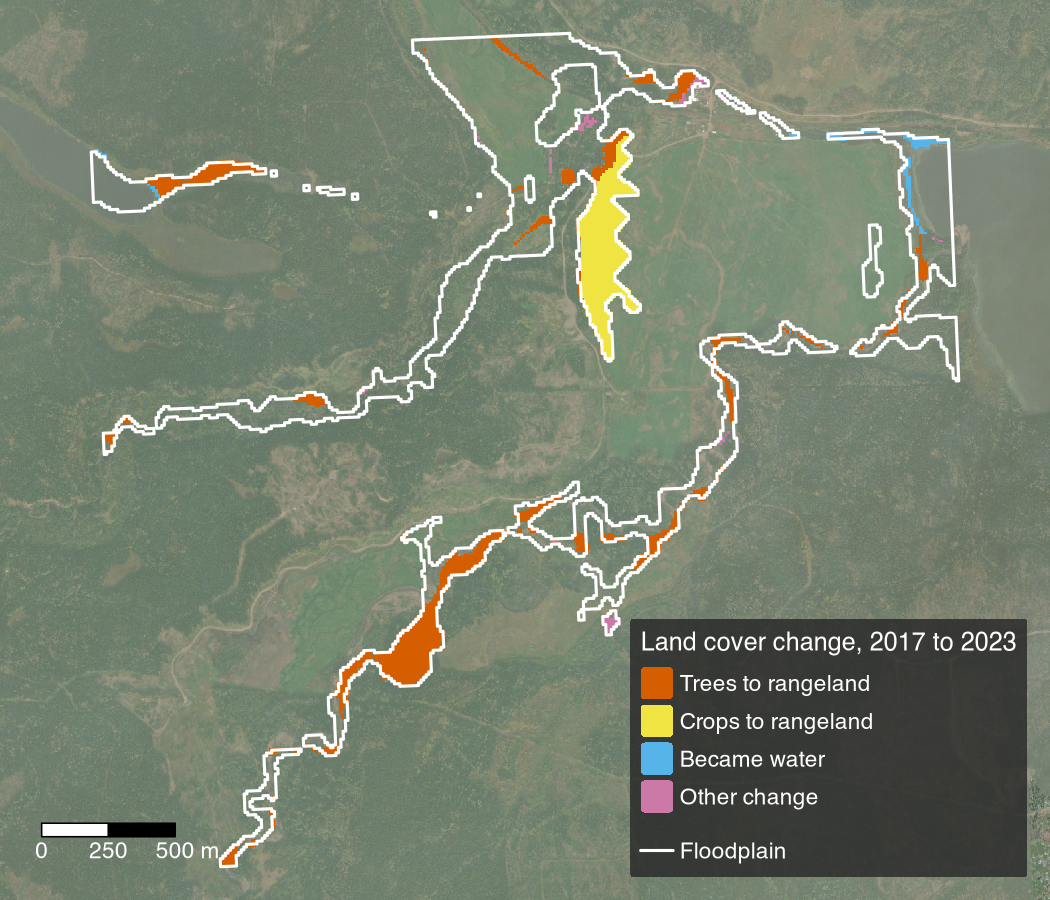
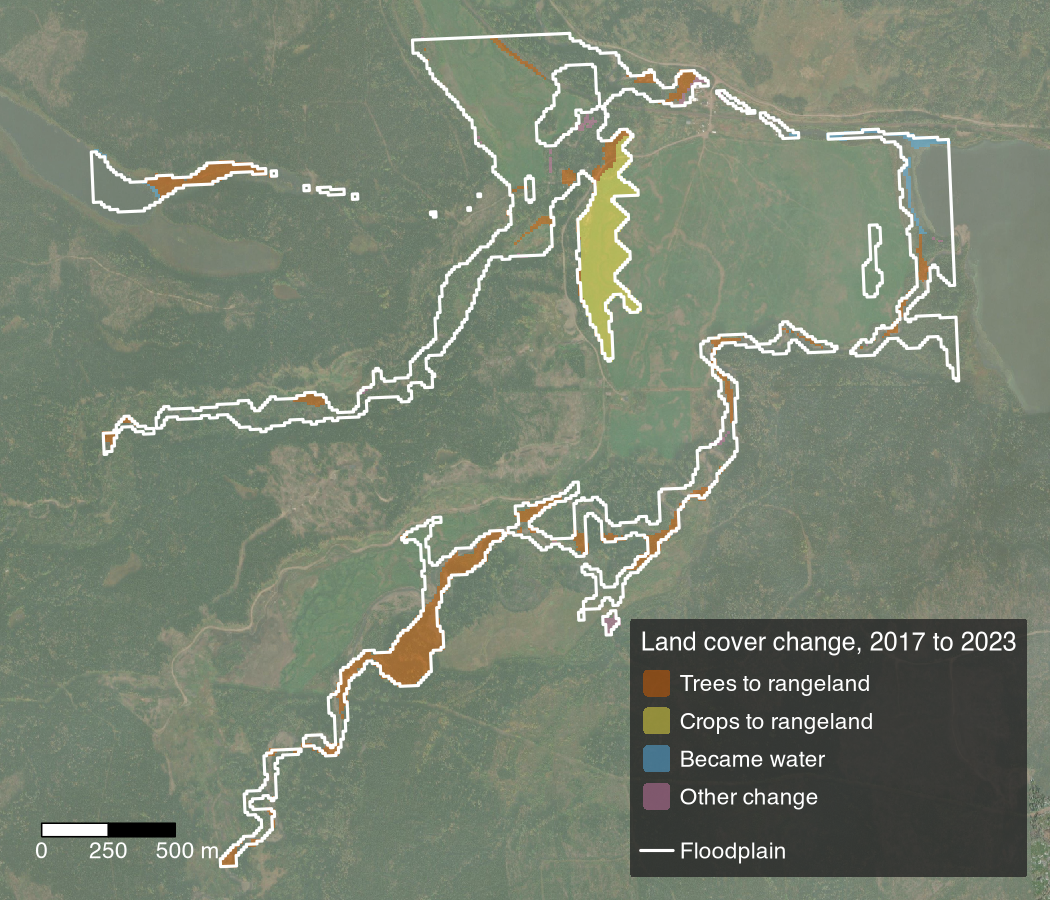
README map at half opacity; caption names what 123 ha is (#105)
Change polygons draw at 50% so the imagery shows through; the opacity is
fill_opacity in drift_readme.csv. The caption's 123 ha is the mapped cells,
not the floodplain outline's 104 ha.

Claude-Session: https://claude.ai/code/session_01PRhUJsuKABLfpBGktPoiBN

diff --git a/planning/active/review-round1.md b/planning/active/review-round1.md
@@ -1,0 +1,132 @@
+# Code-check round 1 — branch 105-readme-describe-accuracy-assessment-brea (2026-10-17)
+
+Reviewer: subagent, read-only on the repo (runs done in scratchpad copies via `git archive HEAD`).
+
+## Findings
+
+- **[false-claim, minor]** README.md:14 (caption) — "34 of 123 ha changed class" sits under a map whose
+  white outline is labelled "Floodplain", so 123 ha reads as the floodplain's area. It is not. The
+  bundled AOI (`inst/extdata/example_aoi.gpkg`) is **103.5 ha**; the 123.1 ha is the 12,311 cells
+  valid in both years, which equals exactly the `rasterize(touches = TRUE)` footprint of the AOI
+  (measured: touches-mask cells = 12,311; cells whose centre is inside the AOI = 10,397). So 19.6 ha
+  (16%) of the stated area, and 5.25 of the 34.0 ha of change (2,878 of 3,403 changed cells have
+  centres inside), lie in the boundary ring of cells that only touch the outline. Visible on the map
+  as orange patches beyond the white line. The numbers are what `dft_rast_transition()` returns; it
+  is the implied denominator that is off. Fix in wording, e.g. "34 of the 123 ha mapped (cells
+  touching the floodplain) changed class", or drop the denominator.
+
+- **[fragile, low]** .github/workflows/update-citation-cff.yaml:30 vs inst/CITATION — README.md:85
+  offers `citation("drift")` and CITATION.cff as interchangeable. After this branch merges, the
+  workflow (run in a scratch copy, cffr 1.4.2, output valid) writes authors *Irvine A; New Graph
+  Environment Ltd.* and `url: https://www.newgraphenvironment.com/drift/`, while `inst/CITATION`
+  still renders *Irvine A (2026) ... New Graph Environment Ltd. ... <https://github.com/...>*
+  (authors filtered to role "aut"; first URL). Two citations of one package with different author
+  lists. Intentional per plan (company as cff author), so only flagging that the two now disagree;
+  not blocking.
+
+No bugs or security issues found in `data-raw/readme_figure.R`, `inst/cartography/drift_readme.csv`,
+`_pkgdown.yml`, DESCRIPTION, or the Rd.
+
+## Verification done
+
+- README example reproduced exactly (`pkgload::load_all()`; tibble 6 x 5, every value and the
+  `0.8` row identical). `area` is ha: `dft_rast_transition(unit = "ha")` default, R/dft_rast_transition.R:66.
+- `data-raw/readme_figure.R` re-run from a `git archive HEAD` copy: 73 s, prints group areas
+  21.11 / 9.98 / 1.73 / 1.21, writes a PNG of **identical byte size** (1,436,503) and dims 1050 x 900,
+  colour type 2 (RGB, no alpha) — the committed figure is made by the committed script.
+- `pkgdown::check_pkgdown()`: no problems; 33 exports, each listed once.
+- `url:` at a `/drift/` path writes no CNAME (`pkgdown:::cname_url` returns NULL for non-root
+  paths, pkgdown 2.2.0); deploy uses `clean: true`. `https://www.newgraphenvironment.com/drift/pkgdown.yml`
+  is 200, so downlit autolinking from sibling sites via the new DESCRIPTION URL still resolves.
+- All README links 200: site root, 4 articles, reference, news, LICENSE.html, CITATION.cff on
+  GitHub, 8 ecosystem sites, gq repo (public), bfast and mapaccuracy CRAN pages (bfast 1.7.2,
+  mapaccuracy 0.1.2 current, not archived).
+- Ecosystem table matches flooded's README verbatim except the swapped bold/this-package row and the
+  added gq row.
+- `inst/cartography/drift_readme.csv` header identical to `drift_temporal.csv`; `gq_reg_custom()`
+  parses it, class order equals `grp_levels`, stroke list well-formed.
+- inst/CITATION takes the first DESCRIPTION URL (GitHub), unchanged.
+
+## Claim enumeration
+
+### README opening / tagline
+
+| Claim | Verdict | Evidence |
+|---|---|---|
+| "fetches free global land-cover maps" (IO LULC, ESA WorldCover) | True | R/dft_stac_config.R:39-50 (Planetary Computer, free, global products) |
+| "or your own classified rasters" | True (via any STAC collection, or a local SpatRaster passed to classify) | R/dft_stac_fetch.R:4-6, 97-99 (`stac_url`/`collection`/`asset` override) |
+| "for a floodplain" | True (any sf polygon AOI) | R/dft_stac_fetch.R:36 |
+| "compares them between two dates" | True | R/dft_rast_transition.R:59 |
+| "and across every year of a series" | True | `dft_rast_break_class()` reads `names(classified)` as the series |
+| "turns the change into maps, tables and change polygons" | True | `dft_map_interactive()`, `$summary`, `dft_transition_vectors()` |
+| "fetches dated Sentinel-2 ... imagery" | True | `dft_stac_composite()` per-year composites |
+| "and Esri Wayback imagery" | True | `dft_wayback_fetch()` |
+| "supports accuracy assessment" | True | `dft_accuracy_sample/estimate/size/labels` |
+| "tags change areas with records you supply, such as fire perimeters or cutblocks" | True; tags, does not attribute cause | R/dft_transition_attribute.R:4, 16-17 |
+| "shows where streamside forest, fields and channels have changed" | Value statement; consistent with IO LULC classes (Trees, Crops, Water) | — |
+
+### Figure caption and alt text
+
+| Claim | Verdict | Evidence |
+|---|---|---|
+| change 2017 to 2023, Neexdzii Kwa reach, bundled data | True | data-raw/readme_figure.R:16-20 |
+| "34 of 123 ha changed class" | Numbers true (34.03 / 123.11); **denominator is the touches-mask cell area, not the 103.5 ha floodplain outlined** | Finding 1 |
+| "Other change" lumps 1.2 ha | True (1.21: Rangeland->Trees 0.85, Built->Rangeland 0.28, Water->Trees 0.03, Flooded veg->Rangeland 0.02, Snow/Ice->Rangeland 0.02, Built->Trees 0.01) | summary, rerun |
+| "Became water" group | True: Trees->Water 0.98 + Rangeland->Water 0.75 = 1.73 | rerun |
+| three named groups are the three largest | True, asserted in script | readme_figure.R:33 |
+| alt: orange trees->rangeland large, yellow crops field, thin blue water edges, few small pink other, white outline, aerial imagery | True against the PNG (#d55e00, #f0e442, #56b4e9, #cc79a7; white #ffffff stroke) | PNG, drift_readme.csv |
+| Land cover: Esri / Impact Observatory IO LULC; Imagery: Esri World Imagery | True | readme_figure.R:59 `Esri.WorldImagery` |
+
+### Installation
+
+| Claim | Verdict | Evidence |
+|---|---|---|
+| "functions that read STAC or Sentinel-2 imagery need gdalcubes" | True: `dft_stac_fetch`, `dft_stac_cube`, `dft_stac_composite`, `dft_index_expr` (cube) call `check_gdalcubes()`; Wayback and `dft_stac_classes` do not | R/dft_stac_fetch.R:109, dft_stac_cube.R:173, dft_stac_composite.R:182, dft_index_expr.R:53 |
+| gdalcubes "archived on CRAN" | True | R/dft_stac_fetch.R:920-933 |
+| fork "reports failed reads" | Consistent with #87 notes / CLAUDE.md | — |
+| "Trajectory break detection also needs bfast" | True; only `dft_rast_break()` | R/dft_rast_break.R:65 |
+| pin `@vX.Y.Z` | Tags are `v`-prefixed (v0.24.2) | git tag |
+
+(Not a false claim, noted only: `dft_map_interactive()` also needs leaflet + leaflet.extras (+ leafem for RGB), Suggests not named in Installation; `rlang::check_installed()` offers the install, R/dft_map_interactive.R:115, 399.)
+
+### Example
+
+| Claim | Verdict | Evidence |
+|---|---|---|
+| pasted output | Reproduces exactly | rerun |
+| "`area` is hectares" | True (default `unit = "ha"`) | R/dft_rast_transition.R:66 |
+| "`dft_stac_fetch()` fetches the land cover for a polygon" | True | R/dft_stac_fetch.R:36 |
+
+### Learn more
+
+| Claim | Verdict | Evidence |
+|---|---|---|
+| four article titles and URLs | Titles match YAML; all 200 | vignettes/*.Rmd, vignettes/articles/*.Rmd |
+| floodplain-change-dating: "dating mapped change with Sentinel-2 and Esri Wayback imagery" | Matches article title | vignettes/articles/floodplain-change-dating.Rmd |
+
+### Data and methods
+
+| Claim | Verdict | Evidence |
+|---|---|---|
+| IO LULC, ESA WorldCover, Sentinel-2 L2A from Microsoft Planetary Computer STAC through gdalcubes | True | R/dft_stac_config.R:41,47,54 |
+| Wayback sub-metre dated imagery | True | R/dft_wayback_*.R |
+| "Vegetation trajectories default to kNDVI" | True | R/dft_stac_cube.R:157 |
+| abrupt breaks from BFAST Monitor | True | R/dft_rast_break.R:4 |
+| gradual trends Theil-Sen + Mann-Kendall | True | R/dft_rast_trend.R:9-12, 92-95 |
+| accuracy/area follow Olofsson 2014, Stehman 2014 through mapaccuracy | True | R/dft_accuracy_estimate.R:38, 182 |
+
+### DESCRIPTION Description (and drift-package.Rd)
+
+Same claims as the opening, plus "estimate accuracy and error-adjusted area from a stratified
+reference sample" (True, `dft_accuracy_sample()` stratified, `dft_accuracy_estimate()` returns
+`$area` with CIs) and "Under active development" (True; lifecycle experimental). Rd regenerated
+from DESCRIPTION (author line now carries affiliation and "Ltd.", which DESCRIPTION already had).
+
+### Citation and license
+
+| Claim | Verdict | Evidence |
+|---|---|---|
+| `citation("drift")` | Works (inst/CITATION) | rendered |
+| CITATION.cff link | 200 on main | curl |
+| MIT, LICENSE.html | True, 200 | DESCRIPTION, curl |
+| the two citations equivalent (implied) | Author lists and URL differ after merge | Finding 2 |

diff --git a/planning/active/progress.md b/planning/active/progress.md
@@ -20,3 +20,12 @@
   the growth is the ecosystem table, code + output, and alt text.
 - Phase 3: DESCRIPTION Description matches the opening, "Under active development.", URL www (second, so inst/CITATION still takes the repo URL). `_pkgdown.yml` url www in the same commit. Citation workflow passes `authors_roles = c("aut", "cre", "cph")`; a local `cff_create()` lists New Graph Environment Ltd. Title kept.
 - Phase 4: `_pkgdown.yml` reference index in eight sections (review #18 assignment); 33 topics = 33 exports, no duplicates (comm/uniq); `check_pkgdown()` clean; `build_home()` to a temp dir shows the figure at `reference/figures/` and the badge in the sidebar.
+- Plan review #10: CLAUDE.md:817 (generated from soul cartography.md:133) links `articles/neexdzii-kwa.html`, 404. Filed soul#446; not edited in place.
+- User: polygons at least 50% transparent; asked whether to use the published stac_floodplains_bc / QGIS scheme
+  (colour by destination class, drift's IO LULC colours, 50%). Rendered both in scratch: the published scheme
+  nearly vanishes over imagery (cream rangeland, trees green on forest, two transitions merge). User chose the
+  README groups at 50%. Opacity lives in `drift_readme.csv` `fill_opacity`; the script reads it from the registry.
+- code-check round 1: no bugs. Caption "34 of 123 ha" read as the floodplain area (AOI is 104 ha; 123 ha is the
+  cells the outline touches) → "34 of the 123 ha mapped". Accepted: `citation("drift")` (aut only, organization
+  NGE Ltd., repo URL) and CITATION.cff (NGE Ltd. as author, www URL) differ in form, both valid.
+- Tests: [ FAIL 0 | WARN 0 | SKIP 19 | PASS 1709 ].

diff --git a/README.md b/README.md
@@ -10,7 +10,7 @@ drift is an R package that fetches free global land-cover maps, or your own clas
 
 <img src="man/figures/readme-change.png" width="100%" alt="Map of a floodplain reach over aerial imagery, outlined in white. Change between 2017 and 2023 is coloured: large orange areas where trees became rangeland, a yellow field where crops became rangeland, thin blue edges where land became water, and a few small pink patches of other change." />
 
-*Where the mapped land-cover class changed between 2017 and 2023 on a reach of Neexdzii Kwa (Upper Bulkley River), BC, from the data bundled with drift. 34 of 123 ha changed class; "Other change" lumps 1.2 ha of smaller transitions. Land cover: Esri / Impact Observatory IO LULC. Imagery: Esri World Imagery.*
+*Where the mapped land-cover class changed between 2017 and 2023 on a reach of Neexdzii Kwa (Upper Bulkley River), BC, from the data bundled with drift. 34 of the 123 ha mapped changed class; "Other change" lumps 1.2 ha of smaller transitions. Land cover: Esri / Impact Observatory IO LULC. Imagery: Esri World Imagery.*
 
 ## Installation
 

diff --git a/planning/active/task_plan.md b/planning/active/task_plan.md
@@ -43,7 +43,7 @@ The README (47 lines) describes drift at about v0.1: fetch, classify, summarize.
 
 - [ ] Every function the README names is exported; every link resolves (curl)
 - [ ] Example output pasted from a real run; word count before (269) / after reported
-- [ ] Tests pass
+- [x] Tests pass
 - [ ] `/code-check` clean (once over the branch, with every README claim enumerated against code)
 - [ ] PWF checkboxes match landed work
 - [ ] `/planning-archive` on completion
